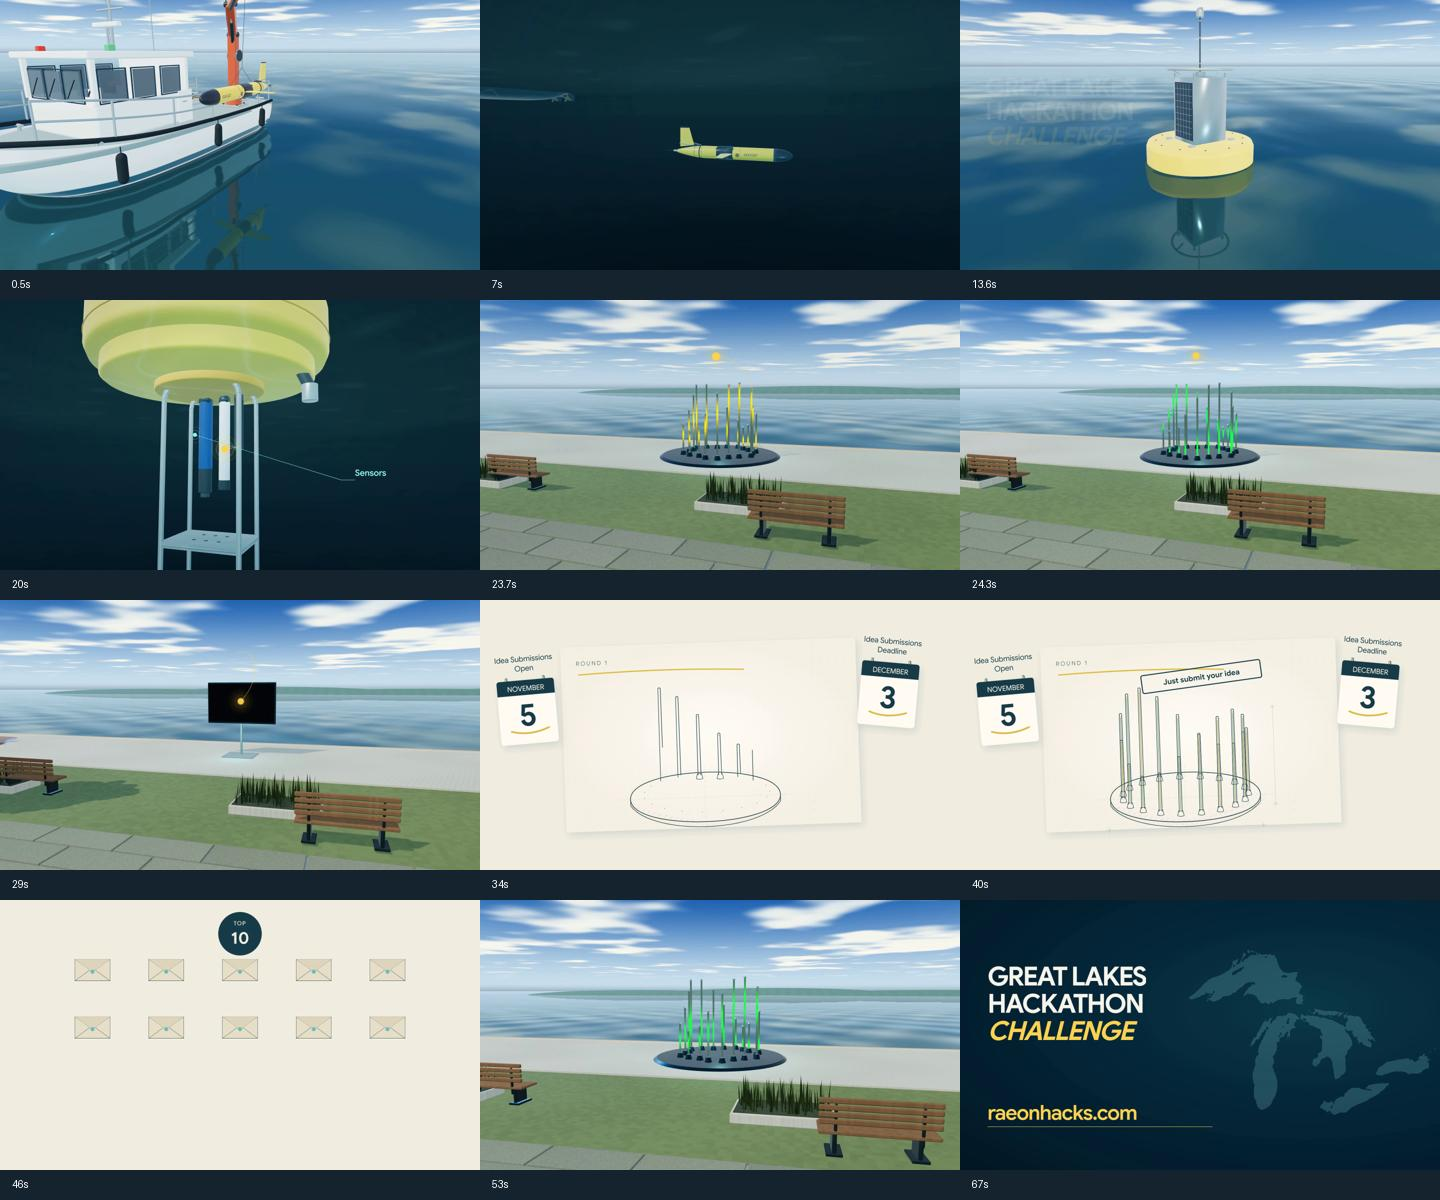
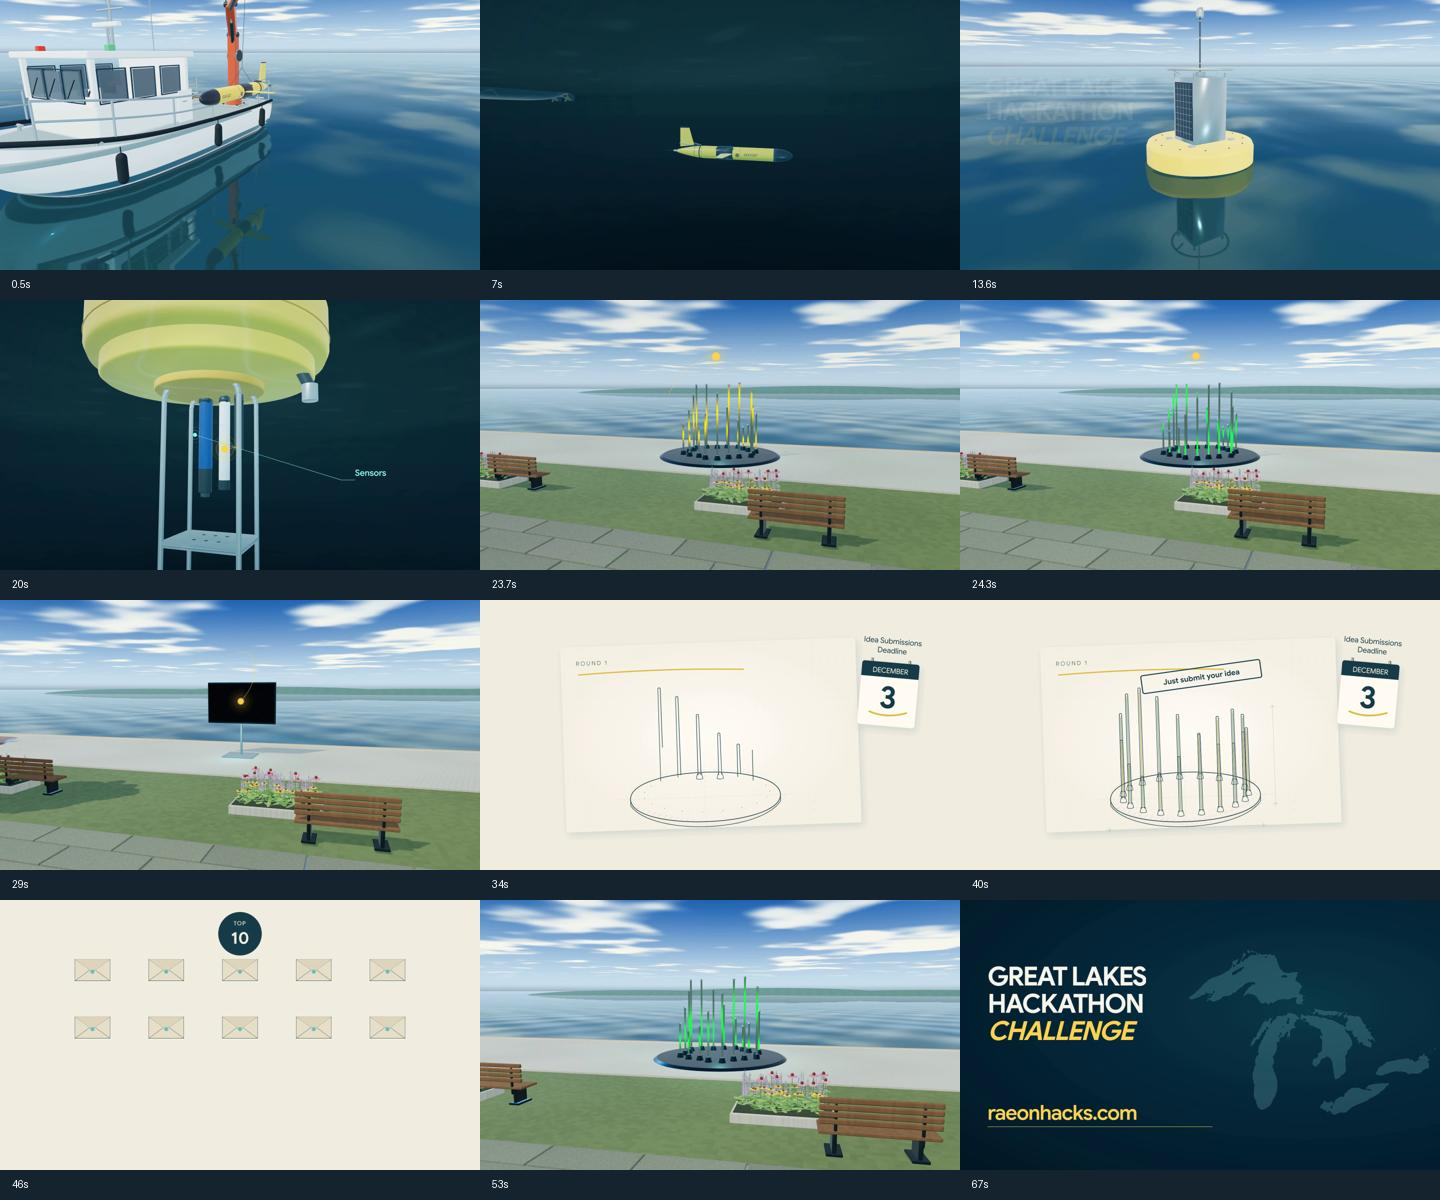
Add clockwise pulse and flowering waterfront; remove opening calendar

diff --git a/promo/src/production-waterfront-environment.js b/promo/src/production-waterfront-environment.js
@@ -1,6 +1,7 @@
 import * as THREE from 'three';
 import {RoundedBoxGeometry} from 'three/addons/geometries/RoundedBoxGeometry.js';
 import {Reflector} from 'three/addons/objects/Reflector.js';
+import {createFlowerBeds} from './flower-beds.js';
 import {createOpeningEnvironment} from './opening-environment.js';
 
 const random=n=>{const x=Math.sin(n*127.1+311.7)*43758.5453;return x-Math.floor(x)};
@@ -32,10 +33,7 @@ export function createProductionWaterfront(scene,ground){
  const matrix=new THREE.Matrix4(),color=new THREE.Color();let count=0;
  for(let row=0;row<5;row++)for(let x=-106+(row%2)*1.1;x<203;x+=2.2){matrix.makeTranslation(x,-.065,2.55+row);pavers.setMatrixAt(count,matrix);color.set('#a9afa5').multiplyScalar(.92+random(count)*.15);pavers.setColorAt(count,color);count++}
  pavers.count=count;scene.add(pavers);
- const grassGeometry=new THREE.BufferGeometry();grassGeometry.setAttribute('position',new THREE.Float32BufferAttribute([-.025,0,0,.025,0,0,.018,.38,0,0,.66,.025,-.025,0,0,.018,.38,0,0,.66,.025,-.016,.32,.02],3));grassGeometry.setIndex([0,1,2,0,2,3,4,5,6,4,6,7]);grassGeometry.computeVertexNormals();
- const bladeMaterial=new THREE.MeshStandardMaterial({color:'#677b4c',roughness:.85,side:THREE.DoubleSide});
- const planted=new THREE.InstancedMesh(grassGeometry,bladeMaterial,900);planted.castShadow=true;planted.receiveShadow=true;
- const dummy=new THREE.Object3D();let blade=0;
+ const dummy=new THREE.Object3D(),beds=[];
  for(const centre of [0,20,40])for(const offset of [-5.5,5.5]){
   const x=centre+offset,z=offset<0?-.7:1.1;
   for(let i=0;i<6;i++)box(2.4,.08,.105,wood,x,.48,z-.3+i*.12,'Bench seat slat');
@@ -43,26 +41,24 @@ export function createProductionWaterfront(scene,ground){
   for(const dx of [-.85,.85]){box(.095,.54,.50,metal,x+dx,.20,z,'Bench leg');box(.35,.06,.60,metal,x+dx,-.04,z,'Bench foot');box(.07,.83,.07,metal,x+dx,.69,z+.31,'Bench back support')}
   box(2.8,.29,1.4,concrete,x-2,.015,-1,'Planted island rim');
   box(2.64,.02,1.25,terrain('#3b4430',10),x-2,.17,-1,'Planting soil');
-  for(let i=0;i<150;i++){
-   const n=blade;dummy.position.set(x-2+(random(n+1)-.5)*2.5,.18,-1+(random(n+77)-.5)*1.1);dummy.rotation.set((random(n+3)-.5)*.18,random(n+8)*Math.PI*2,(random(n+4)-.5)*.2);dummy.scale.setScalar(.45+random(n+9)*.85);dummy.updateMatrix();planted.setMatrixAt(blade,dummy.matrix);color.set('#617444').multiplyScalar(.72+random(n+33)*.6);planted.setColorAt(blade,color);blade++;
-  }
+  beds.push({x:x-2,z:-1});
  }
- scene.add(planted);
+ createFlowerBeds(scene,beds);
  const trees=[];
  for(const [i,x] of [-13,13,33,54].entries()){
   const tree=new THREE.Group();tree.position.set(x,0,2);scene.add(tree);trees.push(tree);
   const bark=terrain('#5b4a37',9);const trunk=new THREE.Mesh(new THREE.CylinderGeometry(.10,.18,3.9,14),bark);trunk.position.y=1.85;trunk.castShadow=true;tree.add(trunk);
-  const leaves=new THREE.InstancedMesh(new THREE.IcosahedronGeometry(.24,1),new THREE.MeshStandardMaterial({color:'#46694a',roughness:.9}),320);leaves.castShadow=true;leaves.receiveShadow=true;
+  const leaves=new THREE.InstancedMesh(new THREE.IcosahedronGeometry(.24,1),new THREE.MeshStandardMaterial({color:'#ffffff',roughness:.9}),320);leaves.castShadow=true;leaves.receiveShadow=true;
   for(let j=0;j<320;j++){
    const n=j+i*997,a=random(n+1)*Math.PI*2,r=Math.sqrt(random(n+2))*1.6;
-   dummy.position.set(Math.cos(a)*r,3.8+(random(n+3)-.5)*2.6,Math.sin(a)*r*.85);dummy.scale.set(.9+random(n+4)*.8,.6+random(n+5)*.8,.9+random(n+6)*.8);dummy.rotation.set(random(n+7),random(n+8),random(n+9));dummy.updateMatrix();leaves.setMatrixAt(j,dummy.matrix);color.set('#486a46').multiplyScalar(.7+random(n+10)*.5);leaves.setColorAt(j,color);
+   dummy.position.set(Math.cos(a)*r,3.8+(random(n+3)-.5)*2.6,Math.sin(a)*r*.85);dummy.scale.set(.9+random(n+4)*.8,.6+random(n+5)*.8,.9+random(n+6)*.8);dummy.rotation.set(random(n+7),random(n+8),random(n+9));dummy.updateMatrix();leaves.setMatrixAt(j,dummy.matrix);color.set('#91ba68').multiplyScalar(.85+random(n+10)*.3);leaves.setColorAt(j,color);
   }tree.add(leaves);
  }
  for(let i=0;i<4;i++){const hill=mesh(new THREE.SphereGeometry(1,40,14),terrain('#4f756d',2),'Distant wooded shore');hill.position.set(-140+i*125,-3,-320-i%2*30);hill.scale.set(125,7+i%2*2,32)}
  const reflector=new Reflector(new THREE.PlaneGeometry(1,1),{textureWidth:1280,textureHeight:720,clipBias:.003,multisample:0});reflector.rotation.x=-Math.PI/2;reflector.position.y=-.75;reflector.visible=false;scene.add(reflector);
  environment.water.material.uniforms.uReflection.value=reflector.getRenderTarget().texture;environment.water.material.uniforms.uReflectionMatrix.value=reflector.material.uniforms.textureMatrix.value;
  return {
-  draw(t){environment.water.material.uniforms.uTime.value=(24.1+t)*1.25;environment.sky.material.uniforms.uTime.value=24.1+t;trees.forEach((tree,i)=>tree.rotation.z=Math.sin(t*.6+i)*.003);planted.rotation.x=Math.sin(t*.9)*.002},
+  draw(t){environment.water.material.uniforms.uTime.value=(24.1+t)*1.25;environment.sky.material.uniforms.uTime.value=24.1+t;trees.forEach((tree,i)=>tree.rotation.z=Math.sin(t*.6+i)*.003)},
   reflect(renderer,camera){scene.updateMatrixWorld(true);camera.updateMatrixWorld();environment.water.visible=false;reflector.onBeforeRender(renderer,scene,camera);reflector.visible=false;environment.water.visible=true;environment.water.material.uniforms.uReflectionStrength.value=.6},
   dispose(){reflector.dispose();environment.environment.dispose()}
  };

diff --git a/promo/src/flower-beds.js b/promo/src/flower-beds.js
@@ -1,0 +1,54 @@
+import * as THREE from 'three';
+const random=n=>{const v=Math.sin(n*127.1+731.8)*43758.5453;return v-Math.floor(v)};
+// Mixed perennial planting inspired by the organizer's flower-bed reference.
+// Instancing keeps the small stems, broad leaves and individual petals efficient.
+export function createFlowerBeds(scene,beds){
+ const group=new THREE.Group();group.name='Mixed pink yellow and lavender flower beds';scene.add(group);
+ const material=color=>new THREE.MeshStandardMaterial({color,roughness:.82});
+ const make=(geo,mat,count,name)=>{const m=new THREE.InstancedMesh(geo,mat,count);m.name=name;m.receiveShadow=true;group.add(m);return m};
+ const stems=make(new THREE.CylinderGeometry(1,1,1,5),material('#69834b'),800,'Flower stems');
+ const leaves=make(new THREE.SphereGeometry(1,8,5),material('#ffffff'),3000,'Broad green leaves');
+ const petals=make(new THREE.SphereGeometry(1,7,4),material('#ffffff'),3000,'Pink coneflower and yellow daisy petals');
+ const centres=make(new THREE.SphereGeometry(1,10,7),material('#74452b'),200,'Raised brown flower centres');
+ const purple=make(new THREE.SphereGeometry(1,6,4),material('#ffffff'),12000,'Lavender flower spikes');
+ const foliage=make(new THREE.SphereGeometry(1,8,5),material('#ffffff'),1000,'Soft low foliage');
+ const dummy=new THREE.Object3D(),color=new THREE.Color();const counts=new Map();
+ function add(mesh,pos,scale,rotation=[0,0,0],tint=null){const i=counts.get(mesh)||0;if(i>=mesh.instanceMatrix.count)throw Error(`Flower instance capacity ${mesh.name}`);dummy.position.set(...pos);dummy.scale.set(...scale);dummy.rotation.set(...rotation);dummy.updateMatrix();mesh.setMatrixAt(i,dummy.matrix);if(tint)mesh.setColorAt(i,color.set(tint));counts.set(mesh,i+1)}
+ for(const [bi,bed] of beds.entries()){
+  const seed=bi*1007;
+  // The lowest layer fills soil gaps with rounded foliage, rather than spikes.
+  for(let i=0;i<120;i++){
+   const n=seed+i,x=bed.x+(random(n+1)-.5)*2.5,z=bed.z+(random(n+3)-.5)*1.1;
+   add(foliage,[x,.23+random(n+5)*.22,z],[.13+random(n+6)*.09,.012,.045+random(n+9)*.035],[(random(n+8)-.5)*.9,random(n+4)*6.28,(random(n+7)-.5)*.7],i%2?'#638a47':'#7d9d5c');
+  }
+  for(let i=0;i<30;i++){
+   const n=seed+i*17,pink=i%3===0;
+   const x=bed.x+(random(n+1)-.5)*2.35,z=bed.z+(pink?-.08:.22)+(random(n+2)-.5)*.55;
+   const h=(pink?.65:.38)+random(n+4)*(pink?.32:.24),y=.18+h;
+   add(stems,[x,.18+h/2,z],[.008,h,.008]);
+   for(let j=0;j<5;j++){
+    const a=j*2.4+random(n+7)*6.28,r=.065;add(leaves,[x+Math.cos(a)*r,.25+h*(j/7),z+Math.sin(a)*r],[.045,.012,.14],[.2*Math.sin(a),a,Math.sin(j)*.2],j%2?'#67954e':'#7eaa5a');
+   }
+   const petalColor=pink?(i%2?'#cf76a7':'#df91be'):(i%2?'#f3ca36':'#eeb529');
+   for(let j=0;j<12;j++){
+    const a=j/12*Math.PI*2,r=pink?.067:.057;
+    add(petals,[x+Math.cos(a)*r,y-(pink?.025:.006),z+Math.sin(a)*r],[pink?.022:.020,.008,pink?.080:.068],[pink?.23:0,Math.PI/2-a,0],petalColor);
+   }
+   add(centres,[x,y+(pink?.018:.008),z],[pink?.043:.032,pink?.052:.026,pink?.043:.032]);
+  }
+  // Fine branching lavender/salvia-like spires sit toward the back of each bed.
+  for(let i=0;i<18;i++)for(let branch=0;branch<3;branch++){
+   const n=seed+500+i*11+branch;
+   const x=bed.x+(random(n+1)-.5)*2.4,z=bed.z-.32+(random(n+2)-.5)*.35;
+   const h=.50+random(n+4)*.48,bend=(random(n+6)-.5)*.20;
+   add(stems,[x,.18+h/2,z],[.004,h,.004],[0,0,bend]);
+   for(let j=0;j<10;j++)for(let k=0;k<3;k++){
+    const a=k*2.094+j*.4,r=.018+(1-j/10)*.016,y=.18+h*(.38+j*.061),dx=-Math.sin(bend)*h*(.38+j*.061);
+    add(purple,[x+dx+Math.cos(a)*r,y,z+Math.sin(a)*r],[.017-j*.0006,.019-j*.0007,.016-j*.0005],[0,a,0],(i+j)%3?'#b29ccc':'#c6b2df');
+   }
+   for(let j=0;j<3;j++)add(leaves,[x,.22+j*.11,z],[.024,.009,.095],[.15,j*2.1,0],'#95aa84');
+  }
+ }
+ for(const mesh of [stems,leaves,petals,centres,purple,foliage]){mesh.count=counts.get(mesh)||0;mesh.instanceMatrix.needsUpdate=true;if(mesh.instanceColor)mesh.instanceColor.needsUpdate=true;mesh.computeBoundingSphere();}
+ return {group,counts:Object.fromEntries([...counts].map(([m,n])=>[m.name,n]))};
+}

diff --git a/promo/src/rough-round-one.jsx b/promo/src/rough-round-one.jsx
@@ -58,16 +58,7 @@ export function RoughRoundOne({production=false,revision=false}){
  <text x="115" y="183" textAnchor="middle" fontFamily={production?"Google Sans, Arial, sans-serif":"Arial"} fontSize="120" fontWeight="700" fill={ink}>3</text>
  <Draw f={f} start={70} duration={20} d="M45 202Q115 226 195 196" color={gold} width={7}/>
  </g>
- <g transform={`translate(65 ${330+ramp(f,26,47,50,0)}) rotate(-5)`} opacity={ramp(f,26,47)*(1-ramp(f,production?310:342,production?334:367))}>
- <text x="115" y="-75" textAnchor="middle" fontFamily={production?"Google Sans, Arial, sans-serif":"Arial"} fontSize="30" fill={ink}>Idea Submissions</text>
- <text x="115" y="-37" textAnchor="middle" fontFamily={production?"Google Sans, Arial, sans-serif":"Arial"} fontSize="30" fill={ink}>Open</text>
- {production&&[40,190].map(x=><g key={x}><path d={`M${x} -8V17`} stroke="#7d8c88" strokeWidth="11" strokeLinecap="round"/><path d={`M${x-2} -8V15`} stroke="#e4e9df" strokeWidth="3" strokeLinecap="round"/></g>)}
- <rect x="0" y="0" width="230" height="255" rx="12" fill="#fffdf6" filter="url(#paper-shadow)"/>
- <path d="M0 60V12Q0 0 12 0H218Q230 0 230 12V60Z" fill={ink}/>
- <text x="115" y="43" textAnchor="middle" fontFamily={production?"Google Sans, Arial, sans-serif":"Arial"} fontSize="28" fill={paper}>NOVEMBER</text>
- <text x="115" y="183" textAnchor="middle" fontFamily={production?"Google Sans, Arial, sans-serif":"Arial"} fontSize="120" fontWeight="700" fill={ink}>5</text>
- <Draw f={f} start={45} duration={20} d="M45 202Q115 226 195 196" color={gold} width={7}/>
- </g>
+
  {!production&&<> <Draw f={f} start={327} duration={40} d="M750 740Q960 660 1190 750Q1390 810 1530 540" color={gold} width={4} opacity={1-ramp(f,365,393)}/>
  <g opacity={ramp(f,348,379)} transform={`translate(${1500+ramp(f,348,389,70,0)} 430)`}>
  <path d="M-130 50L0-45L130 50V210H-130Z" fill="#d4cfb9"/>

diff --git a/LOG.md b/LOG.md
@@ -490,3 +490,8 @@ Production spacing48->20 units, transition intervals48 frames; peak camera trave
 - Organizer authorized new Ashley MP3 sync, removal of opening CASH PRIZES/tourist caption overlays, gold pulse/trail rising underwater into above-display position and ending inside LED to start BE CREATIVE; music/SFX deferred. Copied new audio separately and transcribed locally. New67.4s/2022-frame timeline maps six existing scene choreographies to narration cues through smooth monotonic retiming; prior exports/reference retained.
 - Revised-only SVG gold pulse replaces old travelling pulse; projection math ensures science endpoint/display start exact and TV arrival equals projected LED centre at corrected Be cue28.98s. Legacy scene previews suppressed to avoid duplicate dots. Closing does not restart travelling pulse after TV endpoint. Sensor labels retained. Production-only flags preserve prior rough scenes.
 - Verified2022/2022 frames1920x1080/30FPS67.4s;18 scene/source samples match final exports (worst mean RGB error1.1607/255). Twelve story-detail and12 full-cut moments visually inspected. Corrected audio copy byte-identical to supplied MP3; continuous audio correlation0.999998689, zero measured lag, no music/SFX. Monotonic cue maps pass; science/display core join, trail history and TV endpoint errors0px. TV arrival global869/28.9667s vs Be28.98s (within1frame). Opening captions absent; gold enters screen and lettering follows. Final .com recording used; pending spoken-domain correction resolved. Diff check passed. No manual listening/playback or deployment claim. Website/shared buoy GLB unchanged. Notes/evidence to follow.
+
+
+### 2026-11-01 - Clockwise sweep and flowering waterfront
+- Organizer requested clockwise entry into display scene, lighter green trees and mixed flowers matching pink/purple/yellow reference rather than pointed grasses. Reversed rising curve controls to left-hand clockwise sweep while retaining exact high endpoint, trail history and TV arrival. Replaced900 grass blades with instanced broad leaves, pink/yellow flowers and lavender-like spires; lighter tree instance colors avoid former double-dark multiplication.
+- Additional steering: removed November5 Idea Submissions Open calendar/label; deadline calendar retained. Corrected narration/no music/SFX unchanged. Verified2022-frame1920x1080/30FPS67.4s full export/decode and18 source-frame comparisons. Nine focused motion/landscape/calendar moments and12 full-cut moments visually inspected, plus full-resolution lighter-tree view. Clockwise screen signed sweep area+51884.63px^2; high dot join/trail history/TV endpoint errors0px, TV cue remains28.9667s. Six beds contain720 low-leaf instances,1872 broad leaves,180 flower centres/2160 pink-yellow petals and9720 lavender florets; no pointed bed grasses. November5 opening calendar/label removed, December3 retained. Corrected narration correlation0.999998689 with zero lag; no music/SFX. Diff check passed. Evidence clockwise-flowers-review.jpg, flower-bed-instances.json, corrected-motion.json and corrected-narration-verification.json/review.jpg. No manual playback/listening/deployment claim.

diff --git a/TASKS.md b/TASKS.md
@@ -137,3 +137,8 @@ Production spacing48->20 units, transition intervals48 frames; peak camera trave
 - Organizer authorized new Ashley MP3 sync, removal of opening CASH PRIZES/tourist caption overlays, gold pulse/trail rising underwater into above-display position and ending inside LED to start BE CREATIVE; music/SFX deferred. Copied new audio separately and transcribed locally. New67.4s/2022-frame timeline maps six existing scene choreographies to narration cues through smooth monotonic retiming; prior exports/reference retained.
 - Revised-only SVG gold pulse replaces old travelling pulse; projection math ensures science endpoint/display start exact and TV arrival equals projected LED centre at corrected Be cue28.98s. Legacy scene previews suppressed to avoid duplicate dots. Closing does not restart travelling pulse after TV endpoint. Sensor labels retained. Production-only flags preserve prior rough scenes.
 - Verified2022/2022 frames1920x1080/30FPS67.4s;18 scene/source samples match final exports (worst mean RGB error1.1607/255). Twelve story-detail and12 full-cut moments visually inspected. Corrected audio copy byte-identical to supplied MP3; continuous audio correlation0.999998689, zero measured lag, no music/SFX. Monotonic cue maps pass; science/display core join, trail history and TV endpoint errors0px. TV arrival global869/28.9667s vs Be28.98s (within1frame). Opening captions absent; gold enters screen and lettering follows. Final .com recording used; pending spoken-domain correction resolved. Diff check passed. No manual listening/playback or deployment claim. Website/shared buoy GLB unchanged. Notes/evidence to follow.
+
+
+### 2026-11-01 - Clockwise sweep and flowering waterfront
+- Organizer requested clockwise entry into display scene, lighter green trees and mixed flowers matching pink/purple/yellow reference rather than pointed grasses. Reversed rising curve controls to left-hand clockwise sweep while retaining exact high endpoint, trail history and TV arrival. Replaced900 grass blades with instanced broad leaves, pink/yellow flowers and lavender-like spires; lighter tree instance colors avoid former double-dark multiplication.
+- Additional steering: removed November5 Idea Submissions Open calendar/label; deadline calendar retained. Corrected narration/no music/SFX unchanged. Verified2022-frame1920x1080/30FPS67.4s full export/decode and18 source-frame comparisons. Nine focused motion/landscape/calendar moments and12 full-cut moments visually inspected, plus full-resolution lighter-tree view. Clockwise screen signed sweep area+51884.63px^2; high dot join/trail history/TV endpoint errors0px, TV cue remains28.9667s. Six beds contain720 low-leaf instances,1872 broad leaves,180 flower centres/2160 pink-yellow petals and9720 lavender florets; no pointed bed grasses. November5 opening calendar/label removed, December3 retained. Corrected narration correlation0.999998689 with zero lag; no music/SFX. Diff check passed. Evidence clockwise-flowers-review.jpg, flower-bed-instances.json, corrected-motion.json and corrected-narration-verification.json/review.jpg. No manual playback/listening/deployment claim.

diff --git a/NOW.md b/NOW.md
@@ -1,11 +1,9 @@
-# Active Initiative - GLHC-004 corrected narration and gold story pulse
+# Active Initiative - GLHC-004 clockwise pulse and flowering waterfront
 
 Status: complete, organizer review pending. Main8b4e7d9 fetched ancestor.
 
-Corrected Ashley recording is active; no music/SFX. Removed opening CASH PRIZES and tourist-feature overlays. Gold pulse/trail rises underwater into identical high display position, keeps trail history across dissolve, then enters LED to start BE CREATIVE. Travelling dot ends there. New2022-frame timeline retimes all six scenes with natural endpoint speed to narration cues; prior scenes/assets retained. Notes promo/CORRECTED-NARRATION.md.
+Gold pulse sweeps clockwise from sensor view into high display position. Lighter green trees; mixed pink/yellow/lavender flower beds replace pointed grasses throughout waterfront, Round2 and closing. Removed Idea Submissions Open/November5 calendar; December3 deadline remains. Corrected narration and TV-entry trigger retained.
 
-Verified2022/2022 frames1920x1080/30FPS67.4s;18 scene/source samples match final exports (worst mean RGB error1.1607/255). Twelve story-detail and12 full-cut moments visually inspected. Corrected audio copy byte-identical to supplied MP3; continuous audio correlation0.999998689, zero measured lag, no music/SFX. Monotonic cue maps pass; science/display core join, trail history and TV endpoint errors0px. TV arrival global869/28.9667s vs Be28.98s (within1frame). Opening captions absent; gold enters screen and lettering follows. Final .com recording used; pending spoken-domain correction resolved. Diff check passed. No manual listening/playback or deployment claim.
+Verified2022-frame1920x1080/30FPS67.4s full export/decode and18 source-frame comparisons. Nine focused motion/landscape/calendar moments and12 full-cut moments visually inspected, plus full-resolution lighter-tree view. Clockwise screen signed sweep area+51884.63px^2; high dot join/trail history/TV endpoint errors0px, TV cue remains28.9667s. Six beds contain720 low-leaf instances,1872 broad leaves,180 flower centres/2160 pink-yellow petals and9720 lavender florets; no pointed bed grasses. November5 opening calendar/label removed, December3 retained. Corrected narration correlation0.999998689 with zero lag; no music/SFX. Diff check passed. Evidence clockwise-flowers-review.jpg, flower-bed-instances.json, corrected-motion.json and corrected-narration-verification.json/review.jpg. No manual playback/listening/deployment claim.
 
-Artifact: promo/out/glhc-corrected-voiceover-gold-final.mp4. Manifest promo/corrected-assembly.json; evidence corrected-motion.json, corrected-audio-source.json, corrected-story-review.jpg, corrected-narration-verification.json/review.jpg and ashley-corrected-timing.json.
-
-Next: organizer reviews corrected full video. Music/SFX explicitly deferred. Website/shared GLB/live infrastructure unchanged.
+Artifact: promo/out/glhc-clockwise-flowers.mp4. Manifest promo/corrected-assembly.json. Next: organizer reviews updated full film. Music/SFX deferred. Website/shared GLB/live unchanged.

diff --git a/PROJECT.md b/PROJECT.md
@@ -91,3 +91,5 @@ Submission dates (organizer-supplied2026-10-23): hero displays “Idea Submissio
 Promo film CTA correction (organizer2026-10-30): use raeonhacks.com, superseding prior .ca direction. Supplied reference narration remains unchanged and still says .ca; correct that spoken domain in final audio. This does not change website registration destinations.
 
 Promo narration update (organizer2026-11-01): corrected Ashley MP3 is public/audio/ashley-corrected.mp3 for the revised film, including spoken.com. Music/SFX deferred. Revised film removes opening benefit-caption overlays; travelling dot/trail are gold, rise into above-display view and terminate in LED to trigger BE CREATIVE. Website copy/registration destinations remain separate. See promo/CORRECTED-NARRATION.md.
+
+Promo visual follow-up2026-11-01: clockwise gold-pulse sweep into waterfront, lighter green trees, mixed pink/yellow/purple flower beds instead of pointed grasses. Round1 film keeps the December3 deadline calendar only; organizer removed the opening-date calendar.
